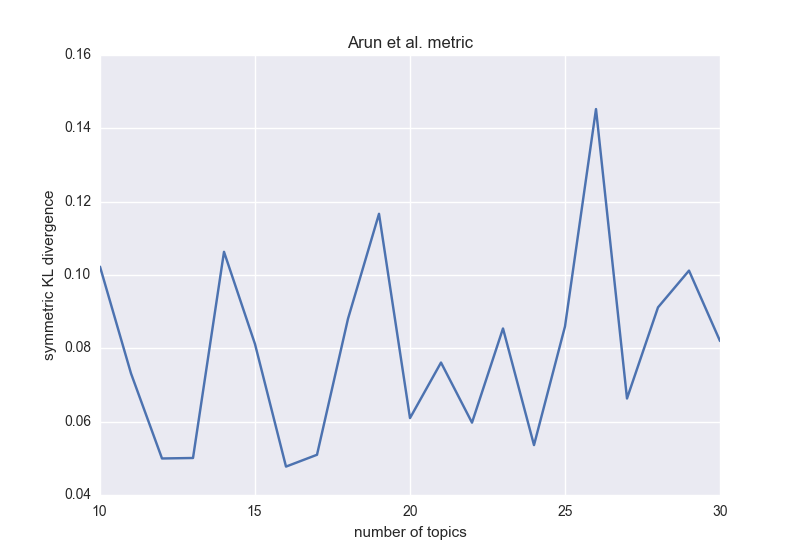
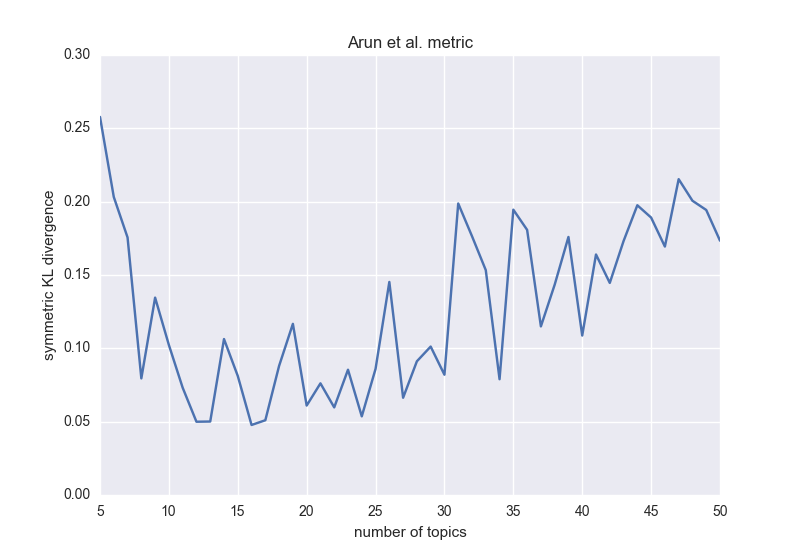
Add figure for the Arun metric

diff --git a/test.py b/test.py
@@ -23,12 +23,12 @@ print 'vocabulary size:', len(corpus.vocabulary)
 print 'Vector representation of document 2:\n', corpus.vector_for_document(2)
 
 # Instanciate a topic model
-topic_model = LatentDirichletAllocation(corpus=corpus)
+topic_model = NonNegativeMatrixFactorization(corpus=corpus)
 
 # Estimate the optimal number of topics
 viz = Visualization(topic_model)
 # viz.plot_greene_metric(min_num_topics=10, max_num_topics=30, tao=10, step=1, top_n_words=10, file_path='output/greene.png')
-viz.plot_arun_metric(min_num_topics=10, max_num_topics=30, iterations=10, file_path='output/arun.png')
+viz.plot_arun_metric(min_num_topics=5, max_num_topics=50, iterations=1, file_path='output/arun.png')
 
 # Infer topics
 topic_model.infer_topics(num_topics=20)
